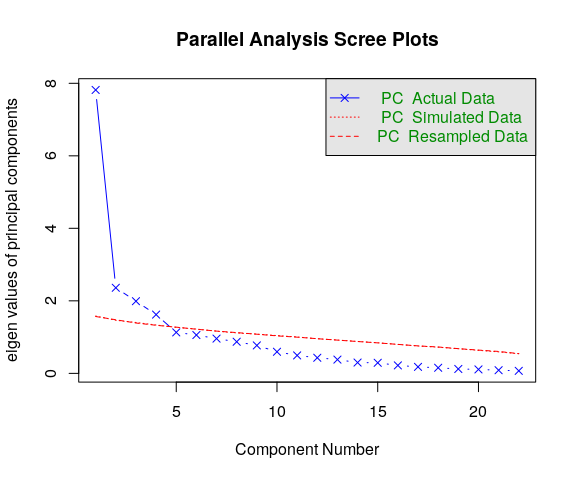
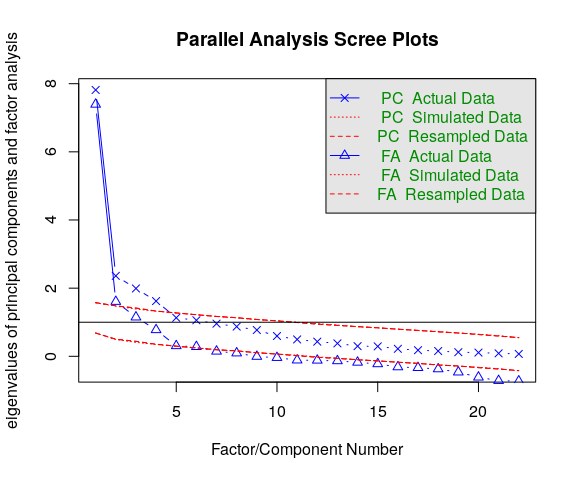
update with the complete dataset

diff --git a/src/pca_EV_index/07-22-2019_pca.md b/src/pca_EV_index/07-22-2019_pca.md
@@ -29,12 +29,12 @@ fviz_screeplot(pr.data, ncp=10)
 Parallel analyis compares the scree of factors of the observed data with that of a random data matrix of the same size as the original. The parallel analysis for this dataset indicates that four components should be retained. There are two ways to tell this; (1) four of the eigenvalues in the actual data are greater than the simulated/resampled data, and (2) the dashed line for parallel analysis in the graph crosses the blue line before reaching the fifth component.
 
 ``` r
-psych::fa.parallel(data,fa="pc")
+psych::fa.parallel(data)
 ```
 
 <img src="07-22-2019_pca_files/figure-markdown_github/unnamed-chunk-3-1.png" width="90%" />
 
-    ## Parallel analysis suggests that the number of factors =  NA  and the number of components =  4
+    ## Parallel analysis suggests that the number of factors =  4  and the number of components =  4
 
 ### Variances explained by the principal components
 
@@ -42,16 +42,55 @@ The proportion of variances retained by the principal components can be extracte
 
 ``` r
 eigenvalues <- pr.data$eig
-head(eigenvalues)
+eigenvalues
 ```
 
-    ##        eigenvalue percentage of variance cumulative percentage of variance
-    ## comp 1   7.816081              35.527642                          35.52764
-    ## comp 2   2.359962              10.727098                          46.25474
-    ## comp 3   1.990373               9.047151                          55.30189
-    ## comp 4   1.620546               7.366116                          62.66801
-    ## comp 5   1.130101               5.136825                          67.80483
-    ## comp 6   1.057150               4.805228                          72.61006
+    ##         eigenvalue percentage of variance
+    ## comp 1  7.81608115             35.5276416
+    ## comp 2  2.35996160             10.7270982
+    ## comp 3  1.99037331              9.0471514
+    ## comp 4  1.62054552              7.3661160
+    ## comp 5  1.13010140              5.1368245
+    ## comp 6  1.05715027              4.8052285
+    ## comp 7  0.95793559              4.3542527
+    ## comp 8  0.87130839              3.9604927
+    ## comp 9  0.77042848              3.5019477
+    ## comp 10 0.59517183              2.7053265
+    ## comp 11 0.49452604              2.2478456
+    ## comp 12 0.42979322              1.9536055
+    ## comp 13 0.37924230              1.7238286
+    ## comp 14 0.29787467              1.3539758
+    ## comp 15 0.29143540              1.3247064
+    ## comp 16 0.21935073              0.9970488
+    ## comp 17 0.17893041              0.8133201
+    ## comp 18 0.15413155              0.7005980
+    ## comp 19 0.12089763              0.5495347
+    ## comp 20 0.10890652              0.4950296
+    ## comp 21 0.08669387              0.3940630
+    ## comp 22 0.06916010              0.3143641
+    ##         cumulative percentage of variance
+    ## comp 1                           35.52764
+    ## comp 2                           46.25474
+    ## comp 3                           55.30189
+    ## comp 4                           62.66801
+    ## comp 5                           67.80483
+    ## comp 6                           72.61006
+    ## comp 7                           76.96431
+    ## comp 8                           80.92481
+    ## comp 9                           84.42675
+    ## comp 10                          87.13208
+    ## comp 11                          89.37993
+    ## comp 12                          91.33353
+    ## comp 13                          93.05736
+    ## comp 14                          94.41134
+    ## comp 15                          95.73604
+    ## comp 16                          96.73309
+    ## comp 17                          97.54641
+    ## comp 18                          98.24701
+    ## comp 19                          98.79654
+    ## comp 20                          99.29157
+    ## comp 21                          99.68564
+    ## comp 22                         100.00000
 
 Dimension description
 ---------------------
@@ -129,62 +168,50 @@ The following four variables are strongly related with Dimension 1:
 - percentage of population with no highschool diploma (no\_highschool) - percentage of households with limited English ability (limited\_english)
 
 ``` r
-pr.desc <- dimdesc(pr.data, axes = c(1,2))
-pr.desc$Dim.1
+pr.desc <- dimdesc(pr.data, axes = c(1,2,3,4))
+pr.desc$Dim.4
 ```
 
     ## $quanti
     ##                    correlation      p.value
-    ## no_insurance         0.9044993 3.000750e-95
-    ## low_income           0.8916130 1.091952e-88
-    ## hispanic             0.8647130 2.504577e-77
-    ## no_highschool        0.8476468 2.542203e-71
-    ## limited_english      0.8203501 4.200447e-63
-    ## poverty              0.7935492 2.722754e-56
-    ## single_parent        0.7736726 7.345766e-52
-    ## unmarried            0.7248714 1.126831e-42
-    ## minority             0.6863124 1.035713e-36
-    ## no_vehicle           0.6554817 1.429656e-32
-    ## ssi                  0.3911455 1.030651e-10
-    ## pai                  0.3844199 2.271155e-10
-    ## unemployed           0.3334935 5.166460e-08
-    ## long_commute        -0.1284192 4.085046e-02
-    ## year_built          -0.1754985 5.031779e-03
-    ## no_water            -0.3495738 1.031517e-08
-    ## no_sewer            -0.3701019 1.151399e-09
-    ## age_above_65        -0.4884393 1.235563e-16
-    ## median_house_value  -0.6665779 5.274233e-34
+    ## year_built           0.6234756 9.320613e-29
+    ## no_water             0.5429473 7.080180e-21
+    ## no_sewer             0.4787954 5.841825e-16
+    ## no_gas               0.4521698 3.331756e-14
+    ## unmarried            0.2954673 1.641493e-06
+    ## minority             0.2105577 7.324801e-04
+    ## unemployed           0.1977352 1.539329e-03
+    ## low_income           0.1707557 6.371202e-03
+    ## no_highschool       -0.1360490 3.018470e-02
+    ## median_house_value  -0.1757523 4.967814e-03
+    ## pai                 -0.1894210 2.433618e-03
+    ## age_above_65        -0.2239271 3.219188e-04
+    ## age_below_18        -0.3411606 2.423929e-08
 
 The following four variables are strongly related with Dimension2:
 - proportion of housing with no sewer available (no\_sewer) - proportion of housing with no water available (no\_water) - proportion of people aged &lt; 18 (age\_below\_18) - median house value weighted by number of units (median\_house\_value)
 - percentage of population with no highschool diploma (no\_highschool)
 
 ``` r
-pr.desc$Dim.2
+pr.desc$Dim.3
 ```
 
     ## $quanti
-    ##                    correlation      p.value
-    ## no_sewer             0.6026577 1.669144e-26
-    ## no_water             0.5783547 4.491675e-24
-    ## age_below_18         0.5725355 1.601902e-23
-    ## median_house_value   0.4897051 1.003980e-16
-    ## no_highschool        0.2978502 1.340242e-06
-    ## no_gas               0.2908464 2.419659e-06
-    ## unemployed           0.2843802 4.117535e-06
-    ## long_commute         0.2674231 1.560727e-05
-    ## hispanic             0.2417938 9.923082e-05
-    ## ssi                  0.2282748 2.437737e-04
-    ## no_insurance         0.2074964 8.781154e-04
-    ## single_parent        0.2015390 1.240675e-03
-    ## limited_english      0.1741749 5.377482e-03
-    ## age_above_65         0.1717449 6.068045e-03
-    ## poverty              0.1679744 7.297438e-03
-    ## low_income          -0.1326680 3.457500e-02
-    ## minority            -0.1947745 1.815850e-03
-    ## year_built          -0.2937668 1.894941e-06
-    ## unmarried           -0.3431273 1.989594e-08
-    ## not_enrolled        -0.4557471 1.974736e-14
+    ##               correlation      p.value
+    ## age_above_65    0.6806611 6.488518e-36
+    ## not_enrolled    0.6744807 4.606630e-35
+    ## no_vehicle      0.3719389 9.390487e-10
+    ## no_water        0.2524790 4.698492e-05
+    ## no_sewer        0.2102098 7.478268e-04
+    ## ssi             0.1789311 4.226415e-03
+    ## unmarried       0.1749928 5.161420e-03
+    ## poverty         0.1383047 2.752825e-02
+    ## no_highschool   0.1356694 3.065269e-02
+    ## single_parent  -0.1379381 2.794584e-02
+    ## unemployed     -0.1451414 2.066607e-02
+    ## minority       -0.3585720 4.021427e-09
+    ## year_built     -0.4297375 7.728223e-13
+    ## age_below_18   -0.5951106 9.980973e-26
 
 ### Contributions of variables to the principal components
 
